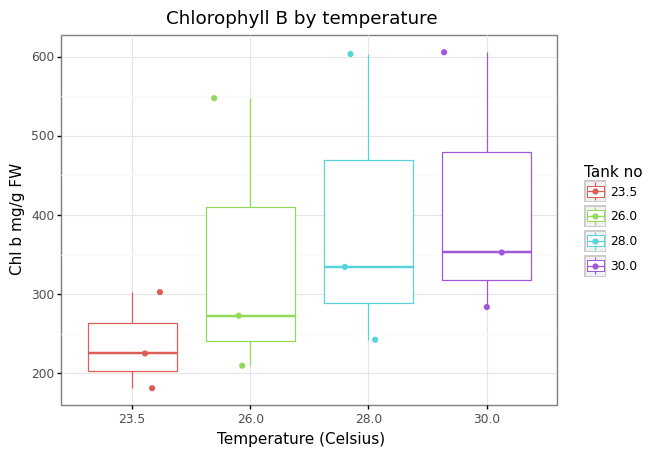
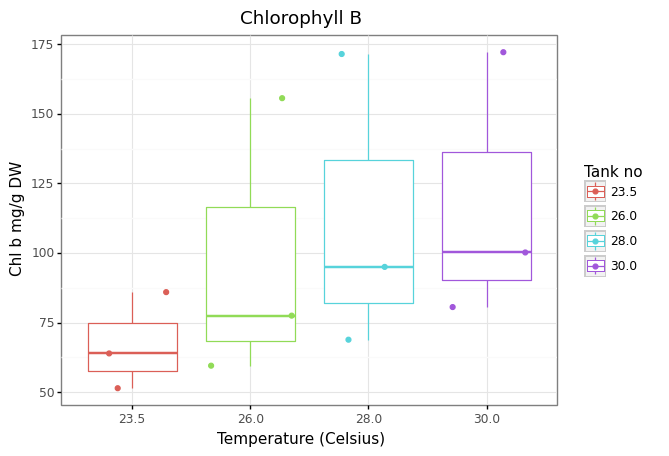
Final changes

diff --git a/main.py b/main.py
@@ -1,7 +1,8 @@
 import pandas as pd
-import numpy as np
 from plotnine import *
 from scipy.stats import ttest_ind
+
+DRY_WET_CONVERTER = 3.5208
 
 
 def create_boxplot(path_name, save_name, x, y, color, title_input, xlab_input, ylab_input):
@@ -23,6 +24,26 @@ def create_boxplot(path_name, save_name, x, y, color, title_input, xlab_input, y
     g.save(save_name)
 
 
+def create_boxplot_dry_wet(path_name, save_name, x, y, color, title_input, xlab_input, ylab_input):
+    """
+    Creates a boxplot comparison and saves the result by the following parameters
+    :param path_name: full path to file
+    :param save_name: png name of file to save
+    :param x: x var name
+    :param y: y var name
+    :param color: color var name
+    :param title_input: title name of plot
+    :param xlab_input: x label of plot
+    :param ylab_input: y label of plot
+    """
+    df = pd.read_csv(path_name)
+    df[f"{x}"] = df[f"{x}"].apply(str)
+    df["Dry"] = df[y] / DRY_WET_CONVERTER
+    g = ggplot(df, aes(x=x, y="Dry", color=color)) + geom_boxplot() + ggtitle(title_input) + \
+        xlab(xlab_input) + ylab(ylab_input) + geom_jitter(height=0) + theme_bw()
+    g.save(save_name)
+
+
 def create_colplot(path_name, save_name, x, y, color, title_input, xlab_input, ylab_input):
     """
     creates a barplot (or column plot) and saves it by the following parameters
@@ -37,60 +58,105 @@ def create_colplot(path_name, save_name, x, y, color, title_input, xlab_input, y
     """
     df = pd.read_csv(path_name)
     df[f"{x}"] = df[f"{x}"].apply(str)
-    g = ggplot(df, aes(x=x, y=y, color=color, fill=x)) + geom_col() + ggtitle(title_input) + \
+    g = ggplot(df, aes(x=x, y=y, color=color, fill=x)) + geom_col() + \
+        geom_errorbar(aes(x=x, ymin="Prot_Conc-sd", ymax="Prot_Conc+sd")) + \
+        ggtitle(title_input) + \
         xlab(xlab_input) + ylab(ylab_input) + theme_bw()
     g.save(save_name)
 
 
+def create_scatter_line(path_name, save_name, x, y, color, title_input, xlab_input, ylab_input, sd):
+    """
+    creates a scatter and line plot and saves it by the following parameters
+    :param path_name: full path to file
+    :param save_name: png name of file to save
+    :param x: x var name
+    :param y: y var name
+    :param color: color var name
+    :param title_input: title name of plot
+    :param xlab_input: x label of plot
+    :param ylab_input: y label of plot
+    :param sd: standard deviation
+    """
+    df = pd.read_csv(path_name)
+    df[f"{color}"] = df[f"{color}"].apply(str)
+    g = ggplot(df, aes(x=x, y=y, color=color, fill=color)) + \
+        geom_point() + \
+        geom_smooth() + \
+        geom_errorbar(aes(x=x, ymin="rETR-STD", ymax="rETR+STD", width=50)) + \
+        ggtitle(title_input) + \
+        xlab(xlab_input) + \
+        ylab(ylab_input) + \
+        theme_bw()
+    g.save(save_name)
+
+
+def od_to_concentration(od):
+    """
+    convert optic density to protein concentration
+    :param od: optic density
+    :return: protein concentration
+    """
+    return (od - 0.564)/0.5161
+
+
 if __name__ == '__main__':
-    # # pam boxplot
-    # create_boxplot(r"Data/Seagrasses data - photosynthesis.csv", r"Plots/fv_fm_day_time.png", "tank", "Fv/Fm", "tank",
-    #                "Fv/Fm by temperature\nDay time", "Temperature (Celsius)", "Fv/Fm")
-
     # rhizome boxplot
-    create_boxplot(r"Data/Seagrasses data - rhizome.csv", r"Plots/rhizome_elongation.png", "Tank", "average length per day",
-                   "Tank", "Rhizome average elongation by temperature\n10 days period", "Temperature (Celsius)",
-                   "Rhizome average daily elongation (cm)")
+    create_boxplot(r"Data/Seagrasses data - rhizome.csv", r"Plots/rhizome_elongation.png", "Tank",
+                   "average length per day",
+                   "Tank", "Rhizome average daily elongation", "Temperature (Celsius)",
+                   "Rhizome average daily elongation (cm/day)")
 
-    # # Chlorophyll reading graph
-    # # Chlorophyll A
-    # create_boxplot(r"Data/Chlorophyll readings excel sheet from hung.csv", r"Plots/Chlorophyll_a.png", "Tank no",
-    #                "Chl a mg/g FW",
-    #                "Tank no", "Chlorophyll A by temperature", "Temperature (Celsius)", "Chl a mg/g FW")
+    # Chlorophyll reading graph
+    # Chlorophyll A
+    create_boxplot_dry_wet(r"Data/Chlorophyll readings excel sheet from hung.csv", r"Plots/Chlorophyll_a.png",
+                           "Tank no",
+                           "Chl a mg/g FW",
+                           "Tank no", "Chlorophyll A", "Temperature (Celsius)", "Chl a mg/g DW")
 
-    # # Chlorophyll B
-    # create_boxplot(r"Data/Chlorophyll readings excel sheet from hung.csv", r"Plots/Chlorophyll_b.png", "Tank no",
-    #                "Chl b mg/g FW",
-    #                "Tank no", "Chlorophyll B by temperature", "Temperature (Celsius)", "Chl b mg/g FW")
+    # Chlorophyll B
+    create_boxplot_dry_wet(r"Data/Chlorophyll readings excel sheet from hung.csv", r"Plots/Chlorophyll_b.png",
+                           "Tank no",
+                           "Chl b mg/g FW",
+                           "Tank no", "Chlorophyll B", "Temperature (Celsius)", "Chl b mg/g DW")
 
-    # # Chlorophyll A+B
-    # create_boxplot(r"Data/Chlorophyll readings excel sheet from hung.csv", r"Plots/Chlorophyll_a_b.png", "Tank no",
-    #                "Chl a+b mg/g FW",
-    #                "Tank no", "Chlorophyll A+B by temperature", "Temperature (Celsius)", "Chl a+b mg/g FW")
+    # Chlorophyll A+B
+    create_boxplot_dry_wet(r"Data/Chlorophyll readings excel sheet from hung.csv", r"Plots/Chlorophyll_a_b.png",
+                           "Tank no",
+                           "Chl a+b mg/g FW",
+                           "Tank no", "Chlorophyll A+B", "Temperature (Celsius)", "Chl a+b mg/g DW")
 
-    # # Carotenoids
-    # create_boxplot(r"Data/Chlorophyll readings excel sheet from hung.csv", r"Plots/Carotenoids.png", "Tank no",
-    #                "Carotenoids mg/g FW",
-    #                "Tank no", "Carotenoids by temperature", "Temperature (Celsius)", "Carotenoids mg/g FW")
+    # Carotenoids
+    create_boxplot_dry_wet(r"Data/Chlorophyll readings excel sheet from hung.csv", r"Plots/Carotenoids.png", "Tank no",
+                           "Carotenoids mg/g FW",
+                           "Tank no", "Carotenoids", "Temperature (Celsius)", "Carotenoids mg/g DW")
 
     # Leaf mass
     create_boxplot(r"Data/Seagrasses data - leaf mass.csv", r"Plots/leaf_mass.png", "treatment [C]",
                    "average mass per day [gr]", "treatment [C]",
-                   "Leaves average mass accumulation by temperature\n10 days period", "Temperature (Celsius)",
-                   "Leaf average daily added mass (gr)")
+                   "Above ground mass accumulation", "Temperature (Celsius)",
+                   "Average daily added mass (gr/day)")
 
-    # # Leaf internodes
-    # create_boxplot(r"Data/Seagrasses data - leaf mass.csv", r"Plots/leaf_internodes.png", "treatment [C]",
-    #                "internodes",
-    #                "treatment [C]", "Leaf number of internodes by temperature", "Temperature (Celsius)",
-    #                "# Internodes")
+    # Leaf internodes
+    create_boxplot(r"Data/Seagrasses data - leaf mass.csv", r"Plots/leaf_internodes.png", "treatment [C]",
+                   "internodes",
+                   "treatment [C]", "New internodes", "Temperature (Celsius)",
+                   "# New Internodes")
 
-    # # Protein content
-    # create_colplot(r"Data/Seagrasses data - protein content.csv", r"Plots/protein_concentration.png", "treatment",
-    #                "concentartion [mg/ml]",
-    #                "treatment", "Protein content by temperature", "Temperature (Celsius)",
-    #                "concentration (mg/ml)")
-    #
-    # # night Fv/Fm
-    # create_boxplot(r"Data/Seagrasses data - Night Fv_Fm.csv", r"Plots/fv_fm_night_time.png", "Tank", "Fv/Fm", "Tank",
-    #                "Fv/Fm by temperature\nNight time", "Temperature (Celsius)", "Fv/Fm")
+    # Protein content
+    create_colplot(r"Data/Protein_Conc_full.csv", r"Plots/protein_concentration.png", "Tank",
+                   "Prot_Conc",
+                   "Tank", "Protein content", "Temperature (Celsius)",
+                   "Protein concentration (mg/ml)")
+
+    # night Fv/Fm
+    create_boxplot(r"Data/Seagrasses data - Night Fv_Fm.csv", r"Plots/fv_fm_night_time.png", "Tank", "Fv/Fm", "Tank",
+                   "Fv/Fm\nNight time", "Temperature (Celsius)", "Fv/Fm")
+
+    # day Fv/Fm
+    create_boxplot(r"Data/Seagrasses data - Day Fv_Fm.csv", r"Plots/fv_fm_day_time.png", "Tank", "Fv/Fm", "Tank",
+                   f"$\Delta$Fv/Fm'\nDay time", "Temperature (Celsius)", f"$\Delta$Fv/Fm'")
+
+    # Light Curve
+    create_scatter_line(r"Data/std_light_curve.csv", r"Plots/light_curve.png", "1:PAR", "rETR", "Tank",
+                        "Light Curve", "PAR", "rETR", "STD")
